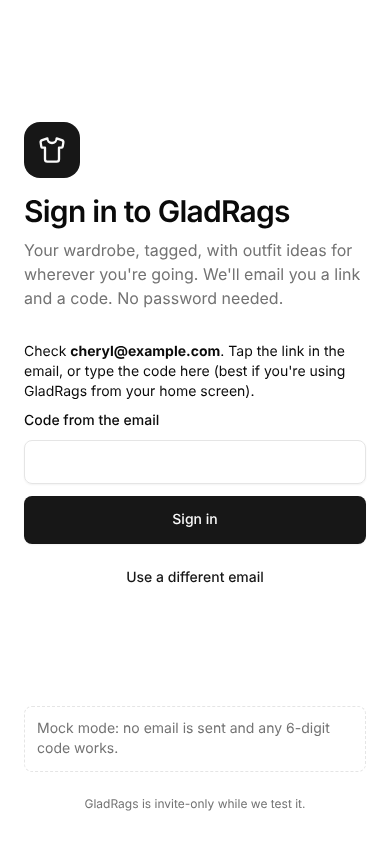
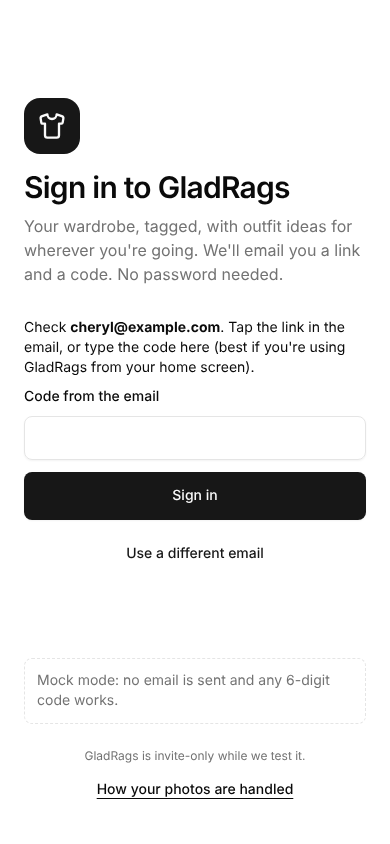
Add the public tester privacy note at /privacy
Renders the draft tester privacy note from src/app/privacy/content.ts
(to be kept in sync with docs/PRIVACY.md). /privacy is a public path in
the proxy, so signed-out visitors can read it, and it is shown without
the bottom nav. Linked from the sign-in page ("How your photos are
handled") and the Account sheet. Adds 390 px screenshots of /privacy and
the shared-link screen, and refreshes the sign-in, add-link and Account
sheet screenshots.

Claude-Session: https://claude.ai/code/session_018ac8Q8dD3Xf3A4n1NVrfT4

Changed region(s): [[0.0615, 0.0924, 0.9231, 0.5237], [0.0923, 0.8009, 0.8308, 0.955], [0.0615, 0.5545, 0.9538, 0.7085]]

diff --git a/src/app/privacy/content.ts b/src/app/privacy/content.ts
@@ -1,0 +1,83 @@
+/**
+ * The tester privacy note shown at /privacy (spec: Privacy and security,
+ * "A one-page privacy note for testers").
+ *
+ * Keep this in sync with docs/PRIVACY.md, which is the source of the text.
+ * It's held here as plain data rather than parsed from the Markdown, so the
+ * page needs no Markdown library and the wording is easy to find and edit.
+ *
+ * A block is a paragraph or a bulleted list. `lead` is an optional bold
+ * opening ("What we store:"), followed by the rest of the text.
+ */
+
+export interface PrivacyParagraph {
+  kind: "paragraph";
+  lead?: string;
+  text: string;
+}
+
+export interface PrivacyList {
+  kind: "list";
+  items: { lead?: string; text: string }[];
+}
+
+export type PrivacyBlock = PrivacyParagraph | PrivacyList;
+
+export const PRIVACY_TITLE = "GladRags: how your photos and data are handled";
+
+export const PRIVACY_BLOCKS: PrivacyBlock[] = [
+  {
+    kind: "paragraph",
+    text: "GladRags is a small test app. Treat it as a prototype. Here's exactly where your data goes.",
+  },
+  {
+    kind: "paragraph",
+    lead: "What we store:",
+    text: "your email address, the photos and product links you add, the cut-out images, the tags, the outfits you get, save or reject, and any feedback you type. We also keep simple usage counts (how many items and outfit requests you make each day) to keep costs down.",
+  },
+  { kind: "paragraph", lead: "Who sees your images:", text: "" },
+  {
+    kind: "list",
+    items: [
+      {
+        lead: "Your phone.",
+        text: "Background removal runs on your own phone. The photo isn't sent anywhere for this step.",
+      },
+      {
+        lead: "Supabase (database, sign-in and image storage).",
+        text: "Your photos are stored in private storage. They're only shown to you, through links that expire after an hour.",
+      },
+      {
+        lead: "Google Gemini (paid tier).",
+        text: "To tag each item and suggest outfits, the app sends Gemini a small copy of the item's picture, plus your style and guidance text. On the paid tier, Google doesn't use this to improve its products. It may keep it for a limited time to check for abuse, as its terms describe.",
+      },
+      {
+        lead: "Vercel (hosts the app).",
+        text: "Your uploads pass through Vercel's servers on the way to storage and aren't kept there. Vercel keeps short-lived request logs, which can include links you paste and search terms.",
+      },
+      {
+        lead: "Shops.",
+        text: "When you add an item by link, our server (not your phone) visits that page and downloads the product picture. The shop sees a request from GladRags, not from you.",
+      },
+    ],
+  },
+  {
+    kind: "paragraph",
+    text: "Nobody else gets your images. There are no ads and no analytics, and your data isn't sold or shared.",
+  },
+  {
+    kind: "paragraph",
+    lead: "Before you take photos:",
+    text: "photograph only the clothes, and check what's in the background. Location data (EXIF and GPS) is removed from every photo before it's stored.",
+  },
+  {
+    kind: "paragraph",
+    lead: "Deleting:",
+    text: "you can delete any item, and its photos go with it. \"Delete my account\" (Account, then Delete my account) removes all your photos, items, outfits and feedback, plus your sign-in account. We keep only anonymous daily usage counts, with no link to you, so the month's AI costs still add up. Photos you uploaded but never saved are deleted automatically within a day.",
+  },
+  {
+    kind: "paragraph",
+    lead: "Questions or a deletion request:",
+    text: "contact Cheryl at [contact address].",
+  },
+];

diff --git a/tests/e2e/privacy.spec.ts b/tests/e2e/privacy.spec.ts
@@ -1,0 +1,40 @@
+import { expect, test } from "@playwright/test";
+
+// The tester privacy note at /privacy (spec: Privacy and security), at
+// 390 px against mock mode. That signed-out visitors can reach it (the
+// proxy's public paths) is covered by src/proxy.test.ts, since mock mode
+// skips the proxy's sign-in redirect.
+
+test.describe("privacy note", () => {
+  test("lists everyone who sees the user's images, and how to delete", async ({ page }) => {
+    await page.goto("/privacy");
+    await expect(page).toHaveTitle("Privacy · GladRags");
+    await expect(page.getByRole("heading", { level: 1, name: "Privacy" })).toBeVisible();
+    await expect(page.getByRole("heading", { level: 2, name: "GladRags: how your photos and data are handled" })).toBeVisible();
+
+    const services = page.getByRole("listitem");
+    await expect(services).toHaveCount(5);
+    for (const lead of ["Your phone.", "Supabase", "Google Gemini (paid tier).", "Vercel (hosts the app).", "Shops."]) {
+      await expect(services.filter({ hasText: lead })).toHaveCount(1);
+    }
+    await expect(page.getByText(/There are no ads and no analytics/)).toBeVisible();
+    await expect(page.getByText(/Location data \(EXIF and GPS\) is removed/)).toBeVisible();
+    await expect(page.getByText(/"Delete my account" \(Account, then Delete my account\)/)).toBeVisible();
+    await expect(page.getByText(/contact Cheryl at \[contact address\]/)).toBeVisible();
+  });
+
+  test("has no bottom navigation, and Back goes into the app", async ({ page }) => {
+    await page.goto("/privacy");
+    await expect(page.getByRole("navigation", { name: "Main" })).toHaveCount(0);
+    await page.getByRole("link", { name: "Back to GladRags" }).click();
+    // Mock mode is always signed in, so "/" lands on the wardrobe.
+    await expect(page).toHaveURL(/\/wardrobe$/);
+  });
+
+  test("is linked from the sign-in page", async ({ page }) => {
+    await page.goto("/sign-in");
+    await page.getByRole("link", { name: "How your photos are handled" }).click();
+    await expect(page).toHaveURL(/\/privacy$/);
+    await expect(page.getByRole("heading", { name: "GladRags: how your photos and data are handled" })).toBeVisible();
+  });
+});

diff --git a/src/app/privacy/page.tsx b/src/app/privacy/page.tsx
@@ -1,0 +1,56 @@
+import type { Metadata } from "next";
+import { PageBody, PageHeader } from "@/components/app-shell/page-header";
+import { PRIVACY_BLOCKS, PRIVACY_TITLE, type PrivacyBlock } from "./content";
+
+export const metadata: Metadata = { title: "Privacy" };
+
+/**
+ * The tester privacy note. Public (src/proxy.ts lets signed-out visitors
+ * see it) and shown without the bottom nav, since it's linked from the
+ * sign-in page as well as the Account sheet. Back goes to "/", which is the
+ * wardrobe when signed in and sign-in otherwise.
+ */
+export default function PrivacyPage() {
+  return (
+    <>
+      <PageHeader title="Privacy" backHref="/" backLabel="Back to GladRags" />
+      <PageBody className="pb-[max(env(safe-area-inset-bottom),2rem)]">
+        <article className="space-y-4 text-base leading-relaxed">
+          <h2 className="text-2xl leading-tight font-semibold tracking-tight text-balance">{PRIVACY_TITLE}</h2>
+          {PRIVACY_BLOCKS.map((block, index) => (
+            <Block key={index} block={block} />
+          ))}
+        </article>
+      </PageBody>
+    </>
+  );
+}
+
+function Lead({ lead, text }: { lead?: string; text: string }) {
+  return (
+    <>
+      {lead && <strong className="font-semibold">{lead}</strong>}
+      {lead && text && " "}
+      {text}
+    </>
+  );
+}
+
+function Block({ block }: { block: PrivacyBlock }) {
+  if (block.kind === "list") {
+    return (
+      <ul className="marker:text-muted-foreground ml-5 list-disc space-y-3">
+        {block.items.map((item, index) => (
+          <li key={index} className="pl-1">
+            <Lead lead={item.lead} text={item.text} />
+          </li>
+        ))}
+      </ul>
+    );
+  }
+  return (
+    <p>
+      <Lead lead={block.lead} text={block.text} />
+    </p>
+  );
+}

diff --git a/src/proxy.test.ts b/src/proxy.test.ts
@@ -1,0 +1,43 @@
+/**
+ * The tester privacy note (/privacy) is public: signed-out visitors, and
+ * the sign-in page's link to it, must reach it without being sent to
+ * /sign-in. Lookalike paths still need sign-in. (The rest of the proxy is
+ * covered by qa-proxy.test.ts.)
+ */
+import { NextRequest, NextResponse } from "next/server";
+import { afterEach, beforeEach, describe, expect, it, vi } from "vitest";
+
+vi.mock("@/lib/supabase/proxy", () => ({
+  updateSession: async (request: NextRequest) => ({ response: NextResponse.next({ request }), user: null }),
+}));
+
+import { config, proxy } from "./proxy";
+
+const visit = (path: string) => proxy(new NextRequest(new URL(path, "http://localhost:3000")));
+
+beforeEach(() => {
+  vi.stubEnv("GLADRAGS_MOCK_MODE", "false");
+  vi.stubEnv("NEXT_PUBLIC_SUPABASE_URL", "https://qa-project.supabase.co");
+  vi.stubEnv("NEXT_PUBLIC_SUPABASE_PUBLISHABLE_KEY", "sb_publishable_qa");
+});
+
+afterEach(() => {
+  vi.unstubAllEnvs();
+});
+
+describe("/privacy for signed-out visitors", () => {
+  it.each(["/privacy", "/privacy?from=sign-in"])("shows %s without a redirect", async (path) => {
+    const res = await visit(path);
+    expect(res.headers.get("location")).toBeNull();
+    expect(res.status).toBe(200);
+  });
+
+  it("runs the proxy on /privacy (so the session is still refreshed there)", () => {
+    expect(new RegExp(`^${config.matcher[0]!}$`).test("/privacy")).toBe(true);
+  });
+
+  it.each(["/privacyx", "/privacy-policy", "/privacy.html"])("still sends lookalike %s to sign-in", async (path) => {
+    const location = (await visit(path)).headers.get("location");
+    expect(location && new URL(location).pathname).toBe("/sign-in");
+  });
+});

diff --git a/src/app/sign-in/page.tsx b/src/app/sign-in/page.tsx
@@ -1,5 +1,6 @@
 import { ShirtIcon } from "lucide-react";
 import type { Metadata } from "next";
+import Link from "next/link";
 import { isMockMode } from "@/lib/env";
 import { safeReturnPath } from "@/lib/auth/redirect";
 import { SignInForm } from "./sign-in-form";
@@ -44,7 +45,15 @@ export default async function SignInPage({
           Mock mode: no email is sent and any 6-digit code works.
         </p>
       )}
-      <p className="text-muted-foreground mt-6 text-center text-xs">GladRags is invite-only while we test it.</p>
+      <div className="mt-6 flex flex-col items-center gap-1 text-center">
+        <p className="text-muted-foreground text-xs">GladRags is invite-only while we test it.</p>
+        <Link
+          href="/privacy"
+          className="inline-flex min-h-11 items-center px-2 text-sm font-medium underline underline-offset-4"
+        >
+          How your photos are handled
+        </Link>
+      </div>
     </main>
   );
 }

diff --git a/tests/e2e/screens.spec.ts b/tests/e2e/screens.spec.ts
@@ -110,6 +110,19 @@ test("add by link", async ({ page }) => {
   await shot(page, "17-add-link-screenshot-fallback");
 });
 
+test("add by link, shared to the app", async ({ page }) => {
+  await page.goto(`/add/link?url=${encodeURIComponent("https://shop.example.com/products/linen-shirt")}`);
+  await page.getByRole("button", { name: "Import this link" }).waitFor();
+  await shot(page, "26-add-link-shared");
+});
+
+test("privacy note", async ({ page }) => {
+  await page.goto("/privacy");
+  await page.getByRole("heading", { name: "GladRags: how your photos and data are handled" }).waitFor();
+  await shot(page, "24-privacy");
+  await shot(page, "25-privacy-full", true);
+});
+
 test("account sheet", async ({ page }) => {
   await page.goto("/wardrobe");
   await page.getByRole("button", { name: "Account" }).click();

diff --git a/src/components/app-shell/nav-items.ts b/src/components/app-shell/nav-items.ts
@@ -15,8 +15,8 @@ export const NAV_ITEMS: NavItem[] = [
   { href: "/outfits/saved", label: "Saved", icon: "saved" },
 ];
 
-/** Pages shown without the app chrome (signed-out screens). */
-const CHROMELESS_PREFIXES = ["/sign-in", "/auth"];
+/** Pages shown without the app chrome (signed-out screens, and the public privacy note). */
+const CHROMELESS_PREFIXES = ["/sign-in", "/auth", "/privacy"];
 
 export function showsAppChrome(pathname: string): boolean {
   return !CHROMELESS_PREFIXES.some((prefix) => pathname === prefix || pathname.startsWith(`${prefix}/`));

diff --git a/src/proxy.ts b/src/proxy.ts
@@ -10,7 +10,7 @@ import { updateSession } from "@/lib/supabase/proxy";
  */
 
 /** Paths that don't need a signed-in user. */
-const PUBLIC_PATHS = ["/sign-in", "/auth/", "/api/auth/", "/offline.html"];
+const PUBLIC_PATHS = ["/sign-in", "/auth/", "/api/auth/", "/offline.html", "/privacy"];
 
 function isPublic(pathname: string): boolean {
   return PUBLIC_PATHS.some((p) => pathname === p || pathname.startsWith(p.endsWith("/") ? p : `${p}/`));

diff --git a/src/components/app-shell/nav-items.test.ts b/src/components/app-shell/nav-items.test.ts
@@ -29,6 +29,7 @@ describe("bottom navigation", () => {
   it("is hidden on the signed-out screens only", () => {
     expect(showsAppChrome("/sign-in")).toBe(false);
     expect(showsAppChrome("/auth/callback")).toBe(false);
+    expect(showsAppChrome("/privacy")).toBe(false);
     expect(showsAppChrome("/wardrobe")).toBe(true);
     expect(showsAppChrome("/sign-in-help")).toBe(true);
   });
